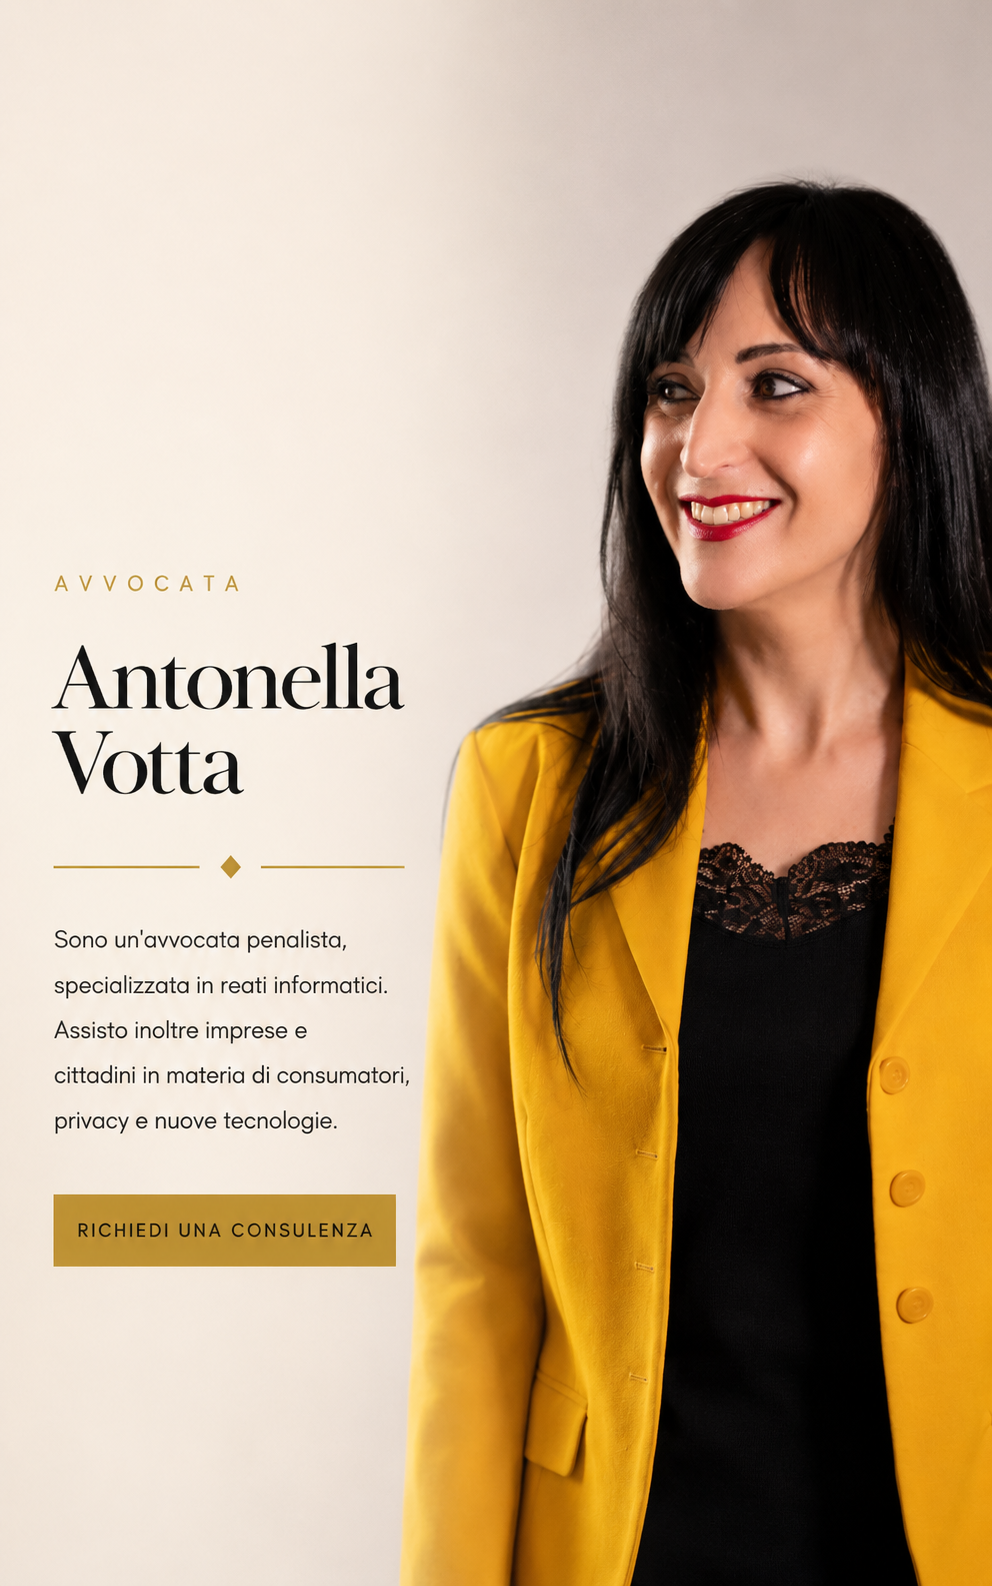
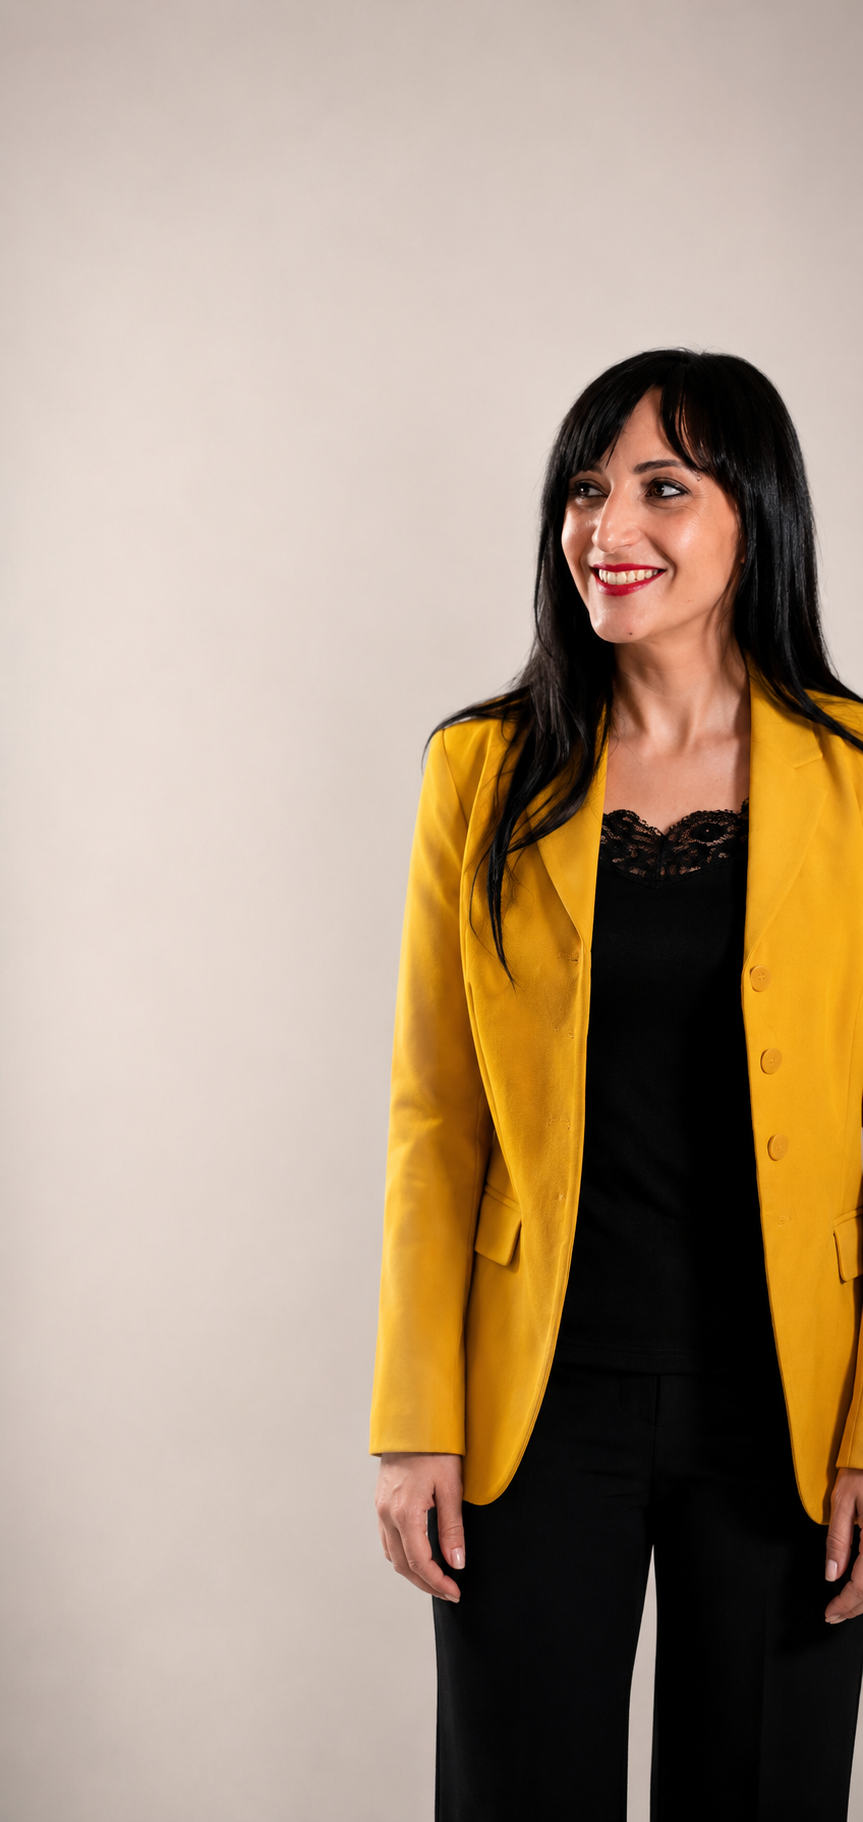
Add dedicated mobile hero image

diff --git a/components/hero-section.tsx b/components/hero-section.tsx
@@ -15,7 +15,7 @@ export function HeroSection() {
           alt="Avvocata Antonella Votta"
           fill
           priority
-          className="object-cover object-top md:hidden"
+          className="object-cover object-center md:hidden"
         />
 
         {/* HERO DESKTOP */}
@@ -24,14 +24,15 @@ export function HeroSection() {
           alt="Avvocata Antonella Votta"
           fill
           priority
-          className="hidden object-cover object-[73%_38%] md:block"
+          className="hidden md:block object-cover object-[73%_38%]"
         />
 
         {/* Overlay Desktop */}
         <div className="absolute inset-0 hidden md:block bg-gradient-to-r from-[#faf8f4]/78 via-[#faf8f4]/42 via-[55%] to-transparent" />
 
         {/* Overlay Mobile */}
-        <div className="absolute inset-0 md:hidden bg-gradient-to-b from-[#faf8f4]/82 via-[#faf8f4]/55 via-[45%] to-transparent" />
+        <div className="absolute inset-0 md:hidden bg-gradient-to-b from-[#faf8f4]/15 via-[#faf8f4]/35 to-[#faf8f4]/88" />
+
       </div>
 
       {/* Contenuto */}
